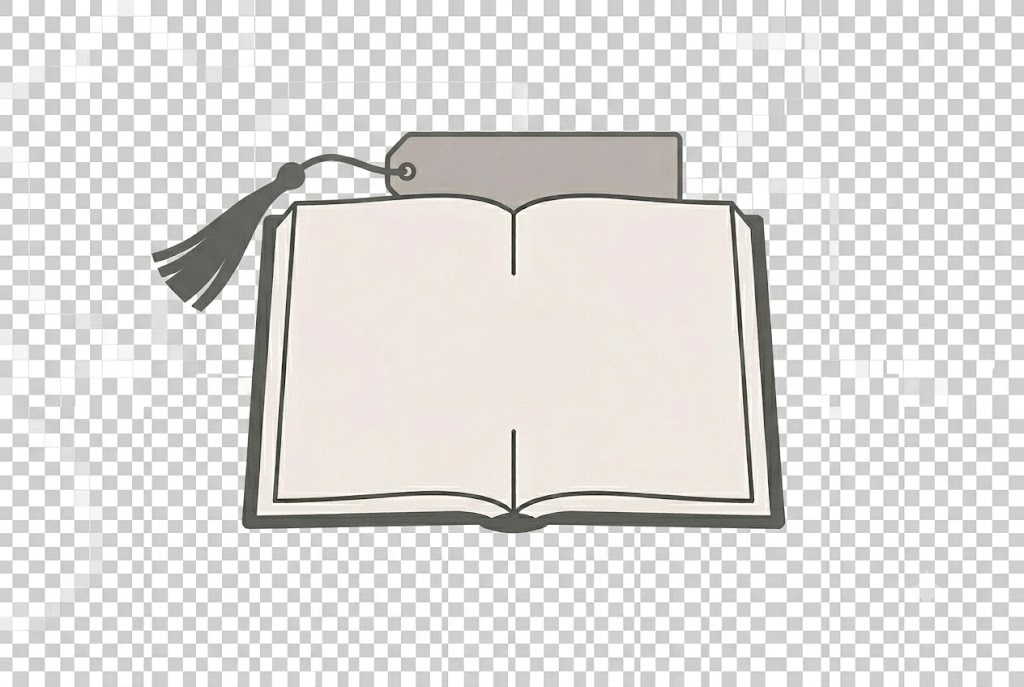
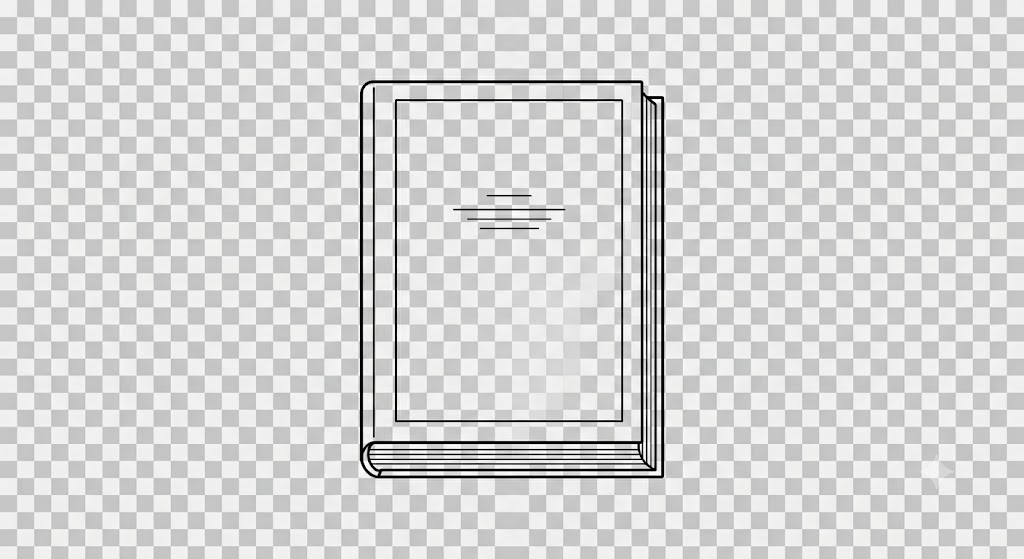
fix:cli_lint

diff --git a/app/controllers/posts_controller.rb b/app/controllers/posts_controller.rb
@@ -1,5 +1,5 @@
 class PostsController < ApplicationController
-    before_action :set_post, only: [:show, :edit, :update, :destroy]
+    before_action :set_post, only: [ :show, :edit, :update, :destroy ]
     def index
         @posts = Post.all.order(created_at: :desc)
     end
@@ -20,19 +20,19 @@ class PostsController < ApplicationController
         if @post.save
             if params[:post][:emotion_tag_ids].present?
                 @post.emotion_tag_ids = params[:post][:emotion_tag_ids]
-            end        
-            redirect_to @post, notice: '栞を挟みました'        
+            end
+            redirect_to @post, notice: "栞を挟みました"
         else
             render :new
-        end            
+        end
     end
-    
+
     def edit
     end
 
     def update
         if @post.update(post_params)
-            redirect_to @post, notice: '栞を更新しました' 
+            redirect_to @post, notice: "栞を更新しました"
         else
             render :edit
         end

diff --git a/app/controllers/users_controller.rb b/app/controllers/users_controller.rb
@@ -16,7 +16,7 @@ class UsersController < ApplicationController
 
         respond_to do |format|
             if @user.save
-                format.html { redirect_to user_url(@user),notice: "ユーザーの作成に成功しました" }
+                format.html { redirect_to user_url(@user), notice: "ユーザーの作成に成功しました" }
                 format.json { render :show, status: :created, location: @user }
             else
                 format.html { render :new, status: :unprocessable_entity }
@@ -52,5 +52,4 @@ class UsersController < ApplicationController
     def user_params
       params.require(:user).permit(:name, :email, :password, :password_confirmation)
     end
-
 end

diff --git a/config/application.rb b/config/application.rb
@@ -11,8 +11,8 @@ module Myapp
     # Initialize configuration defaults for originally generated Rails version.
     config.load_defaults 7.1
     config.i18n.default_locale = :ja
-    config.i18n.available_locales = [:ja, :en]
-    config.i18n.load_path += Dir[Rails.root.join('config', 'locales', '**', '*.yml')]
+    config.i18n.available_locales = [ :ja, :en ]
+    config.i18n.load_path += Dir[Rails.root.join("config", "locales", "**", "*.yml")]
     # Please, add to the `ignore` list any other `lib` subdirectories that do
     # not contain `.rb` files, or that should not be reloaded or eager loaded.
     # Common ones are `templates`, `generators`, or `middleware`, for example.

diff --git a/app/controllers/logins_controller.rb b/app/controllers/logins_controller.rb
@@ -7,11 +7,10 @@ class LoginsController < ApplicationController
         user = User.find_by(email: params[:email])
         if user&.authenticate(params[:password])
             session[:user_id] = user.id
-            redirect_to root_path, notice: 'ログインしました'            
+            redirect_to root_path, notice: "ログインしました"
         else
-            flash.now[:alert] = 'ログインに失敗しました'
-            render 'new',status: :unprocessable_entity
+            flash.now[:alert] = "ログインに失敗しました"
+            render "new", status: :unprocessable_entity
         end
-        
     end
 end

diff --git a/app/controllers/application_controller.rb b/app/controllers/application_controller.rb
@@ -1,6 +1,6 @@
 class ApplicationController < ActionController::Base
   # Only allow modern browsers supporting webp images, web push, badges, import maps, CSS nesting, and CSS :has.
-  helper_method :logged_in?,:current_user
+  helper_method :logged_in?, :current_user
   before_action :require_login
 
   def logged_in?
@@ -13,8 +13,7 @@ class ApplicationController < ActionController::Base
 
   def require_login
     redirect_to new_login_path unless logged_in?
-  end  
-  
-  private
+  end
 
+  private
 end

diff --git a/config/routes.rb b/config/routes.rb
@@ -12,13 +12,13 @@ Rails.application.routes.draw do
   # Defines the root path route ("/")
   root "top#index"
 
-  resources :users, only: [:new, :create, :edit, :destroy, :show, :update]
+  resources :users, only: [ :new, :create, :edit, :destroy, :show, :update ]
   resources :posts do
     collection do
       get :my_posts
     end
   end
 
-  resource :login, only: [:new, :create]
-  resource :logout, only: [:show]
+  resource :login, only: [ :new, :create ]
+  resource :logout, only: [ :show ]
 end

diff --git a/db/schema.rb b/db/schema.rb
@@ -33,11 +33,11 @@ ActiveRecord::Schema[7.1].define(version: 2026_06_10_213652) do
 
   create_table "posts", force: :cascade do |t|
     t.string "content"
+    t.datetime "created_at", null: false
     t.string "memo"
     t.string "source"
-    t.bigint "user_id"
-    t.datetime "created_at", null: false
     t.datetime "updated_at", null: false
+    t.bigint "user_id"
     t.index ["user_id"], name: "index_posts_on_user_id"
   end
 

diff --git a/db/migrate/20260610213652_create_post_emotion_tags.rb b/db/migrate/20260610213652_create_post_emotion_tags.rb
@@ -7,6 +7,6 @@ class CreatePostEmotionTags < ActiveRecord::Migration[7.1]
       t.timestamps
     end
 
-    add_index :post_emotion_tags, [:post_id, :emotion_tag_id], unique: true
+    add_index :post_emotion_tags, [ :post_id, :emotion_tag_id ], unique: true
   end
 end

diff --git a/app/controllers/logouts_controller.rb b/app/controllers/logouts_controller.rb
@@ -1,6 +1,6 @@
 class LogoutsController < ApplicationController
     def show
         session.delete(:user_id)
-        redirect_to root_path, notice: 'ログアウトしました'
+        redirect_to root_path, notice: "ログアウトしました"
     end
 end

diff --git a/db/migrate/20260517210715_create_users.rb b/db/migrate/20260517210715_create_users.rb
@@ -4,7 +4,7 @@ class CreateUsers < ActiveRecord::Migration[8.1]
       t.string :name
       t.string :email
       t.string :password_digest
-      
+
       t.timestamps
     end
   end
